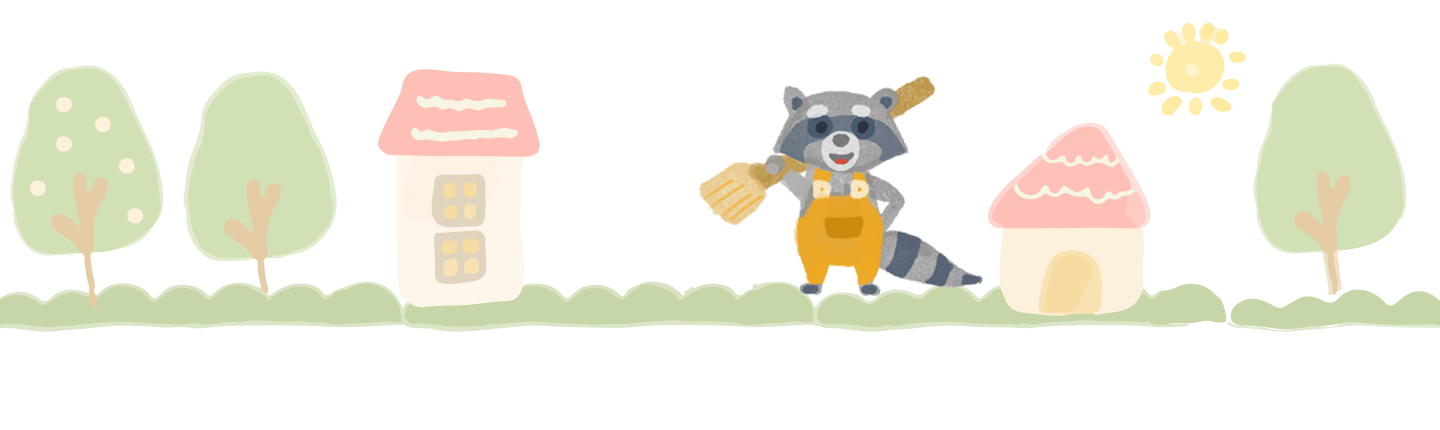
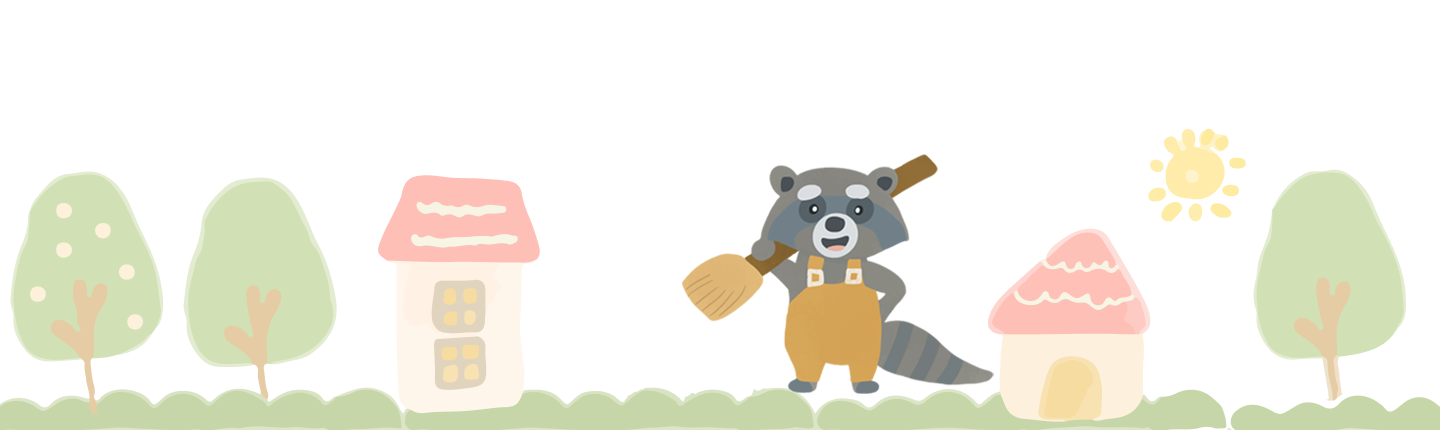
add iconVer narber and new raccon background

diff --git a/src/components/indexbg.jsx b/src/components/indexbg.jsx
@@ -6,67 +6,63 @@ class indexbg extends Component {
     backgroundColor: "#ffc107",
     height: "3em",
     width: "15em",
-    color:"#664D03"
+    color: "#664D03"
   };
 
-  roundpic = {
-    top: "25%",
-    left: "55%",
-  };
+
 
   render() {
     return (
 
-      <div className='d-flex row   position-relative '>
-        {/* 空白 */}
-        <div style={{ height: '25em' }}></div>
+      <div className='d-flex  justify-content-center  position-relative'
+        style={{ paddingTop: "10em" }}>
 
-        <div className="d-flex"
-          style={{ position: 'absolute', top: '10em', right: '25em', width: '100%', height: '15em', flexDirection: 'column', justifyContent: 'center', alignItems: 'center' }}>
-          <h1 style={{ color: "#3F3350",textAlign:"center" }}>
+
+        {/* 背景圖片 */}
+        <img src='images/background.png'
+          alt=""
+          className='img-fluid '
+          style={{ width: '100vw', height: 'auto' }} />
+
+
+        {/* 文字及預約按鈕 */}
+        <div className="d-flex row   justify-content-center position-absolute"
+          style={{ top: "15%", left: "10%" }}>
+          <h1 style={{ color: "#3F3350", textAlign: "center" }}>
             浣熊管家<br />讓你有個乾淨的家
           </h1>
           <button className='btn'
             style={this.btn}>
             立即預約
           </button>
-
-          {/* 圓形圖片 */}
-          <div
-            className='position-relative'
-            style={this.roundpic}>
-            <div
-              className='position-absolute translate-middle'>
-              <img
-                src="images/circleImage1.webp"
-                alt=""
-                className='rounded-circle'
-                style={{ width: '200px', height: '200px' }} />
-            </div>
-
-            <div
-              className='position-absolute bottom-50 end-50 translate-middle'>
-
-              <img
-                src="images/circleImage2.webp"
-                alt=""
-                className='rounded-circle'
-                style={{ width: '250px', height: '250px' }} />
-
-            </div>
-          </div>
         </div>
 
-        <div className='d-flex '
-          style={{ width: '100vw', height: "40em" }}>
-
-          {/* 背景圖片 */}
-          <img src='images/background.png'
+        {/* 圓形圖片 */}
+        <div className="position-absolute d-none d-xxl-block"
+          style={{ top: '5%', right: "40%" }}>
+          <img
+            src="images/circleImage1.webp"
             alt=""
-            className='img-fluid'
-            style={{ maxWidth:'100%', height: 'auto' }} />
+            className='rounded-circle border border-2 border-white '
+            style={{ width: '300px', height: '300px', boxShadow: '3px 10px 20px 0px rgba(0, 0, 0, 0.20)' }} />
         </div>
+
+
+
+        <div className="position-absolute d-none d-xxl-block"
+          style={{ right: "20%" }}>
+          <img
+            src="images/circleImage2.webp"
+            alt=""
+            // border-2 border-white  shadow  rounded
+            className='rounded-circle border border-2 border-white'
+            style={{ width: '250px', height: '250px', boxShadow: '3px 10px 20px 0px rgba(0, 0, 0, 0.20)' }} />
+        </div>
+
+
       </div>
+
+
 
 
 

diff --git a/src/components/narbarIcon.jsx b/src/components/narbarIcon.jsx
@@ -19,9 +19,8 @@ class narbar extends Component {
 
     btn = {
         backgroundColor: "#ffc107",
-        color: "#664D03",
-
-
+        height: "2em",
+        color: "#664D03"
 
     };
     atagstyle = {
@@ -39,21 +38,30 @@ class narbar extends Component {
                     <nav style={this.styles} className='d-flex'>
                         {/* logo */}
                         <img src='images/logo.png' style={{ width: "10em", height: "6em" }} alt="" className='img-fluid' />
+
                         <div className='ms-auto d-flex align-items-center' >
                             <a href="" style={this.atagstyle} className=' mx-3  text-decoration-none '>關於我們</a>
                             <a href="" style={this.atagstyle} className=' mx-3 text-decoration-none'>服務項目</a>
                             <a href="" style={this.atagstyle} className='mx-3   text-decoration-none'>案例分享</a>
                             <a href="" style={this.atagstyle} className='mx-3   text-decoration-none'>常見問題</a>
-                            <a href=""> <img src="images/info.png" alt=""
-                                className='m-3'
-                                style={{ width: "2rem" }} /></a>
-                            <button className='px-3 mx-2 btn  ' style={this.btn}>登入</button>
+                            {/* icon */}
+                            <a href="">
+                                <img src="images/info.png" alt=""
+                                    className='m-3'
+                                    style={{ width: "2rem" }} />
+                            </a>
+
+                            <a href="">
+                                <img src="images/login.png" alt=""
+                                    style={{ width: "2rem" }} />
+                            </a>
+
                         </div>
                     </nav >
-                </div>
+                </div >
 
 
-
+                {/* 封面 */}
 
             </div >
         );
